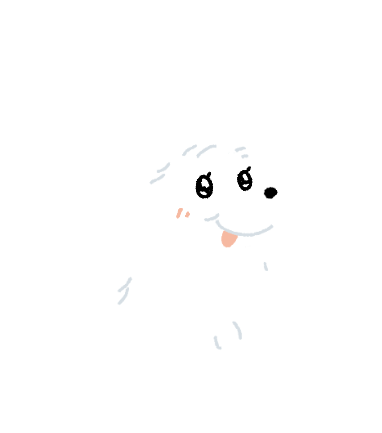
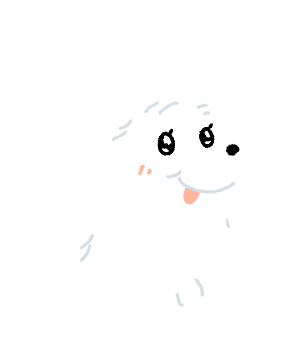
[style] adjust layout, change snowman images with space cropped

diff --git a/src/components/SnowmanList.tsx b/src/components/SnowmanList.tsx
@@ -29,7 +29,7 @@ function SnowmanList(props: Props) {
 
   return (
     <>
-      <FlexBox position="absolute" direction="flex-row" className="z-20 w-full top-[50%] -translate-y-[50%] justify-between">
+      <FlexBox position="absolute" direction="flex-row" className="z-50 w-full top-[50%] -translate-y-[50%] justify-between">
         <Arrow onClick={prevPage} fill="#55b8ff" className="relative w-[24px] h-[48px] left-[33.66px]" disabled={pageNum === 1} />
         <Arrow onClick={nextPage} fill="#55b8ff" className="relative w-[24px] h-[48px] rotate-180 right-[33.66px]" disabled={pageNum === maxPageNum} />
       </FlexBox>
@@ -37,7 +37,7 @@ function SnowmanList(props: Props) {
       <FlexBox
         position="absolute"
         direction="flex-col"
-        className="top-[50%] -translate-y-[30%] left-[50%] -translate-x-[50%] w-[calc(100%_-_115.32px)] h-[calc(100%_-_470px)] max-h-[1200px] z-20"
+        className="top-[50%] -translate-y-[30%] left-[50%] -translate-x-[50%] w-[90vw] h-[50vh] max-h-[1200px] z-20"
       >
         <FlexBox position="relative" direction="flex-row" className="justify-center h-full">
           {datas.slice(0, 2).map(({ id, type, seen }) => (

diff --git a/src/components/Town/ShareBtn.tsx b/src/components/Town/ShareBtn.tsx
@@ -16,7 +16,7 @@ function ShareBtn(props: Props) {
   return (
     <button
       type="button"
-      className="absolute left-[50%] -translate-x-[50%] top-[50%] -translate-y-[50%] text-[22px] text-primary-900 pt-1"
+      className="absolute left-[50%] -translate-x-[50%] top-[50%] -translate-y-[50%] text-[22px] text-primary-900 pt-1 min-w-[200px]"
       onClick={handleShare}
     >
       내 마을 링크 공유하기

diff --git a/src/components/Snowman.tsx b/src/components/Snowman.tsx
@@ -20,7 +20,7 @@ function Snowman(props: Props) {
   }
 
   return (
-    <div className={`relative max-w-[360px] max-h-[400px] aspect-[3/4]`} onClick={isMine ? seeDetail : () => {}}>
+    <div className={`relative max-w-[360px] max-h-[400px] aspect-[0.9]`} onClick={isMine ? seeDetail : () => {}}>
       <BaseImage src={src} alt={`${type} 눈사람`} fill />
     </div>
   );
